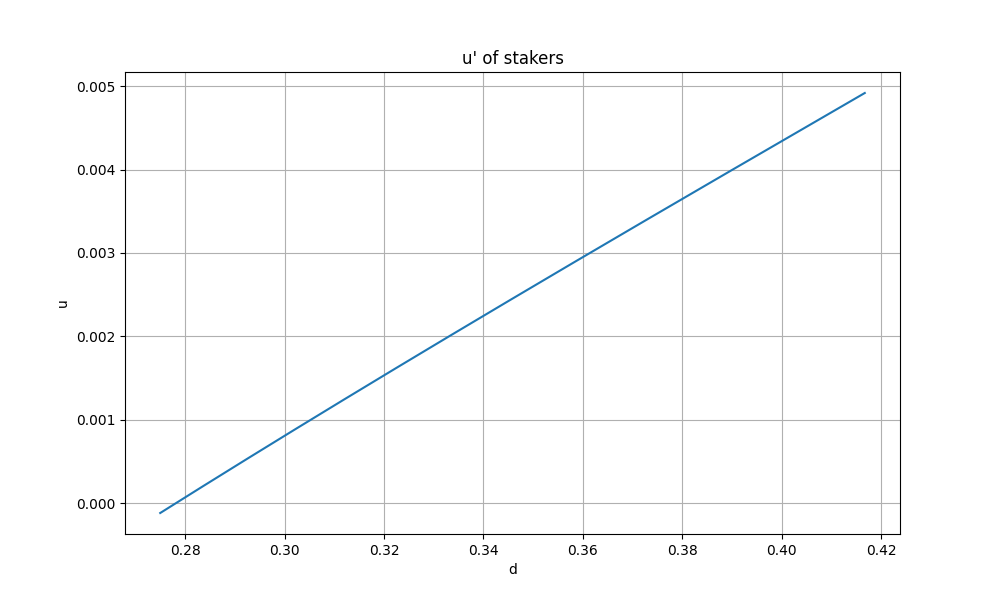
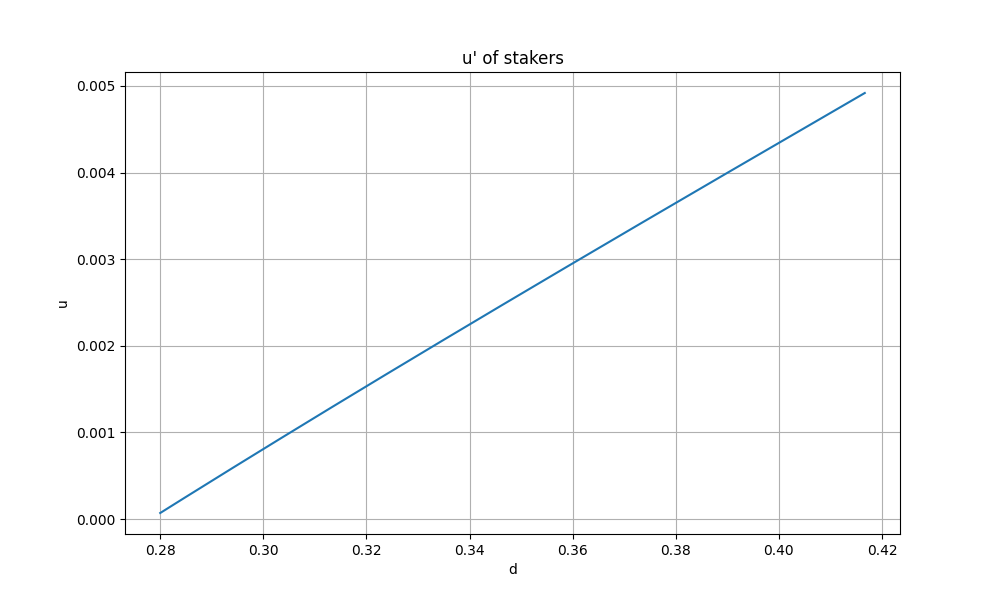
fix d_a value

diff --git a/main.py b/main.py
@@ -38,7 +38,7 @@ def u_dash(point_b: Point, point_a: Point) -> float:
 
 def main():
     d_b = 50/120 # 50M / 120M
-    d_a = 33/120 # 33M / 120M = 0.275
+    d_a = 33.6/120 # 33.6M / 120M
     F_b = 64
     F_a = 32
 
@@ -55,17 +55,10 @@ def main():
     valid_d_values = []
 
     for d in d_values:
-        try:
-            u = u_dash(Point(d_b, F_b, False), Point(d, F_a, False))
-            if not np.isnan(u) and not np.isinf(u) and isinstance(u, (int, float)):
-                u_values.append(u)
-                valid_d_values.append(d)
-        except Exception as e:
-            print(f"Error at d={d}: {e}")
-
-    if not u_values:
-        print("No valid u values were calculated. Check the function definitions and input parameters.")
-        return
+        u = u_dash(Point(d_b, F_b, False), Point(d, F_a, False))
+        if not np.isnan(u) and not np.isinf(u) and isinstance(u, (int, float)):
+            u_values.append(u)
+            valid_d_values.append(d)
 
     plt.figure(figsize=(10, 6))
     plt.plot(valid_d_values, u_values)
@@ -73,7 +66,6 @@ def main():
     plt.ylabel('u')
     plt.title("u' of stakers")
     plt.grid(True)
-    # plt.show()
     plt.savefig("u_dash.png")
 
 
